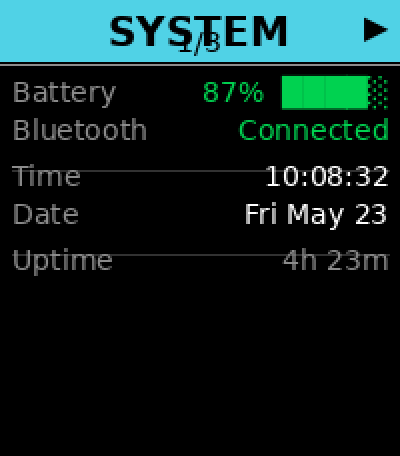
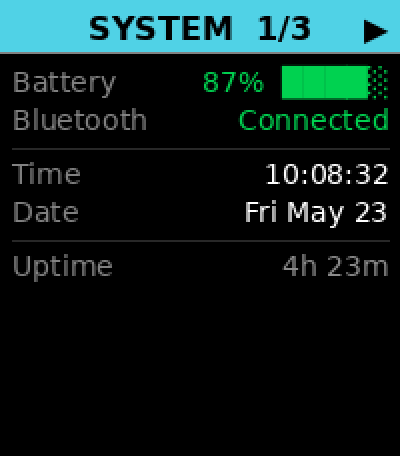
Fix layout and overlap issues across all three apps
tutorial-watchface:
- Disconnect "X" now drawn below the battery bar (BATTERY_BAR_Y + BAR_H + 2)
  instead of at the same y, where it overlapped the 6px bar
- Centred content block clamped to MIN_Y so it can never collide with top chrome

minimalist-digital:
- Battery % and BT indicator were at hardcoded y=6 corner positions, placing them
  ~175px from the gabbro circle centre (radius 130px) — fully clipped and invisible
- Both now sit as a status row inside the vertically-centred content block,
  safe on both rectangular and round displays

sensor-diagnostics:
- Header had two text elements (title fontHd + page indicator fontSm) overlapping
  in the same ~10-27px vertical band; merged into one "TITLE  n/N" string in fontMd
- drawDivider drew at y + ROW_H/2 instead of y; all four call sites passed
  compensating offsets that still placed every divider at the start of the next row;
  fixed function to draw at exactly y and rewrote call sites with y+=3/drawDivider/y+=5

Also: add Layout Rules section to CLAUDE.md to prevent recurrence

https://claude.ai/code/session_01XQxQaedp8XNnZs871mhqEd

Changed region(s): [[0.0, 0.0307, 1.0, 0.614]]

diff --git a/sensor-diagnostics/src/embeddedjs/main.js b/sensor-diagnostics/src/embeddedjs/main.js
@@ -26,10 +26,10 @@ const fontSm = parseBMF(parseRLE(new Resource("Gothic-Regular-18.fnt")));
 const fontMd = parseBMF(parseRLE(new Resource("Gothic-Bold-18.fnt")));
 const fontHd = parseBMF(parseRLE(new Resource("Gothic-Bold-24.fnt")));
 
-const ROW_H    = fontSm.height + 4;
-const HDR_H    = fontHd.height + 6;
-const MARGIN   = 6;
-const DIVIDER_Y = HDR_H + 2;
+const ROW_H     = fontSm.height + 4;
+const HDR_H     = fontMd.height + 10;  // single-line header using fontMd
+const MARGIN    = 6;
+const DIVIDER_Y = HDR_H + 1;
 
 // ─── Pages ───────────────────────────────────────────────────────────────────
 
@@ -111,25 +111,21 @@ function dateStr() {
 // ─── Drawing ──────────────────────────────────────────────────────────────────
 
 function drawHeader(title) {
-  // Background strip
   render.fillRectangle(CYAN, 0, 0, W, HDR_H);
 
-  // Page title centered
-  const tw = render.getTextWidth(title, fontHd);
-  render.drawText(title, fontHd, BLACK, Math.round((W - tw) / 2), 3);
+  // Single line: "TITLE  n/N", vertically centred in header band
+  const label = `${title}  ${page + 1}/${PAGES.length}`;
+  const ty    = Math.round((HDR_H - fontMd.height) / 2);
 
-  // Nav arrows
-  const arrowColor = BLACK;
-  if (page > 0) render.drawText("◀", fontMd, arrowColor, MARGIN, 3);
-  if (page < PAGES.length - 1) render.drawText("▶", fontMd, arrowColor, W - render.getTextWidth("▶", fontMd) - MARGIN, 3);
+  if (page > 0)
+    render.drawText("◀", fontMd, BLACK, MARGIN, ty);
+  if (page < PAGES.length - 1)
+    render.drawText("▶", fontMd, BLACK, W - render.getTextWidth("▶", fontMd) - MARGIN, ty);
 
-  // Page indicator
-  const indicator = `${page + 1}/${PAGES.length}`;
-  const iw = render.getTextWidth(indicator, fontSm);
-  render.drawText(indicator, fontSm, arrowColor, Math.round((W - iw) / 2), HDR_H - fontSm.height - 2);
+  const lw = render.getTextWidth(label, fontMd);
+  render.drawText(label, fontMd, BLACK, Math.round((W - lw) / 2), ty);
 
-  // Divider
-  render.fillRectangle(GRAY, 0, DIVIDER_Y, W, 1);
+  render.fillRectangle(GRAY, 0, HDR_H, W, 1);
 }
 
 function drawRow(label, value, valueColor, y) {
@@ -139,7 +135,7 @@ function drawRow(label, value, valueColor, y) {
 }
 
 function drawDivider(y) {
-  render.fillRectangle(render.makeColor(40, 40, 40), MARGIN, y + ROW_H / 2, W - MARGIN * 2, 1);
+  render.fillRectangle(render.makeColor(40, 40, 40), MARGIN, y, W - MARGIN * 2, 1);
 }
 
 // Page 1: System
@@ -164,7 +160,7 @@ function drawSystem() {
           state.connected ? GREEN : RED, y);
   y += ROW_H;
 
-  drawDivider(y - ROW_H / 2);
+  y += 3; drawDivider(y); y += 5;
 
   drawRow("Time", timeStr(), WHITE, y);
   y += ROW_H;
@@ -172,7 +168,7 @@ function drawSystem() {
   drawRow("Date", dateStr(), WHITE, y);
   y += ROW_H;
 
-  drawDivider(y - ROW_H / 2);
+  y += 3; drawDivider(y); y += 5;
 
   drawRow("Uptime", formatUptime(), GRAY, y);
 }
@@ -192,8 +188,7 @@ function drawMotion() {
     y += ROW_H * 3;
   }
 
-  drawDivider(y);
-  y += 6;
+  y += 3; drawDivider(y); y += 5;
 
   const stepsVal = (state.steps !== null) ? String(state.steps) : "N/A";
   drawRow("Steps", stepsVal, CYAN, y);
@@ -206,8 +201,7 @@ function drawInput() {
   const lastColor = state.lastButton === "—" ? GRAY : YELLOW;
   drawRow("Last btn", state.lastButton.toUpperCase(), lastColor, y); y += ROW_H;
 
-  drawDivider(y);
-  y += 6;
+  y += 3; drawDivider(y); y += 5;
 
   function btnRow(label, pressed) {
     drawRow(label, pressed ? "PRESSED" : "released", pressed ? YELLOW : GRAY, y);

diff --git a/minimalist-digital/src/embeddedjs/main.js b/minimalist-digital/src/embeddedjs/main.js
@@ -18,6 +18,8 @@ const timeFont = parseBMF(parseRLE(new Resource("Bitham-Bold-42.fnt")));
 const dateFont = parseBMF(parseRLE(new Resource("Gothic-Bold-24.fnt")));
 const infoFont = parseBMF(parseRLE(new Resource("Gothic-Regular-18.fnt")));
 
+const MARGIN = 6;
+
 const DAYS   = ["Sun", "Mon", "Tue", "Wed", "Thu", "Fri", "Sat"];
 const MONTHS = ["Jan", "Feb", "Mar", "Apr", "May", "Jun",
                 "Jul", "Aug", "Sep", "Oct", "Nov", "Dec"];
@@ -42,32 +44,32 @@ function draw(now) {
   render.begin(0, 0, W, H);
   render.fillRectangle(BLACK, 0, 0, W, H);
 
-  // Battery % — top right
-  const batStr = `${batteryLevel}%`;
-  const batW   = render.getTextWidth(batStr, infoFont);
-  render.drawText(batStr, infoFont, batteryLevel <= 20 ? RED : GRAY, W - batW - 6, 6);
+  const timeStr = formatTime(now);
+  const dateStr = formatDate(now);
+  const batStr  = `${batteryLevel}%`;
 
-  // Bluetooth indicator — top left, only when disconnected
-  if (!connected) {
-    render.drawText("BT", infoFont, RED, 6, 6);
-  }
+  const infoH   = infoFont.height;
+  const timeH   = timeFont.height;
+  const dateH   = dateFont.height;
+  const GAP     = 6;
 
-  // Vertically center time + date block
-  const timeH    = timeFont.height;
-  const dateH    = dateFont.height;
-  const gap      = 6;
-  const contentH = timeH + gap + dateH;
-  let   y        = Math.round((H - contentH) / 2);
+  // All four elements form one centred block — safe on both rect and round displays
+  const contentH = infoH + GAP + timeH + GAP + dateH;
+  let y = Math.round((H - contentH) / 2);
+
+  // Info row: battery % right-aligned, BT left-aligned when disconnected
+  const batW = render.getTextWidth(batStr, infoFont);
+  render.drawText(batStr, infoFont, batteryLevel <= 20 ? RED : GRAY, W - batW - MARGIN, y);
+  if (!connected) render.drawText("BT", infoFont, RED, MARGIN, y);
+  y += infoH + GAP;
 
   // Time
-  const timeStr = formatTime(now);
-  const timeW   = render.getTextWidth(timeStr, timeFont);
+  const timeW = render.getTextWidth(timeStr, timeFont);
   render.drawText(timeStr, timeFont, WHITE, Math.round((W - timeW) / 2), y);
-  y += timeH + gap;
+  y += timeH + GAP;
 
   // Date
-  const dateStr = formatDate(now);
-  const dateW   = render.getTextWidth(dateStr, dateFont);
+  const dateW = render.getTextWidth(dateStr, dateFont);
   render.drawText(dateStr, dateFont, GRAY, Math.round((W - dateW) / 2), y);
 
   render.end();

diff --git a/tutorial-watchface/src/embeddedjs/main.js b/tutorial-watchface/src/embeddedjs/main.js
@@ -114,11 +114,12 @@ function draw(now) {
   const barColor = batteryLevel > 40 ? GREEN : batteryLevel > 20 ? YELLOW : RED;
   render.fillRectangle(barColor, BATTERY_BAR_MARGIN, BATTERY_BAR_Y, barW, BATTERY_BAR_H);
 
-  // Disconnected indicator
+  // Disconnected indicator — sits below the battery bar, not on top of it
   if (!connected) {
     const xStr = "X";
     const xW = render.getTextWidth(xStr, statusFont);
-    render.drawText(xStr, statusFont, RED, W - xW - BATTERY_BAR_MARGIN, BATTERY_BAR_Y);
+    render.drawText(xStr, statusFont, RED, W - xW - BATTERY_BAR_MARGIN,
+      BATTERY_BAR_Y + BATTERY_BAR_H + 2);
   }
 
   // Calculate total content height for vertical centering
@@ -127,7 +128,9 @@ function draw(now) {
   const weatH = weather ? statusFont.height + 4 : 0;
   const contentH = timeH + dateH + weatH;
 
-  let y = Math.round((H - contentH) / 2);
+  // Clamp so content never overlaps the battery bar / disconnect indicator at top
+  const MIN_Y = BATTERY_BAR_Y + BATTERY_BAR_H + statusFont.height + 6;
+  let y = Math.max(MIN_Y, Math.round((H - contentH) / 2));
 
   // Time
   const timeStr = formatTime(now);

diff --git a/CLAUDE.md b/CLAUDE.md
@@ -140,6 +140,33 @@ pebble install --emulator gabbro   # test round display
 
 Do not skip this step even for small changes. The README is the living record of the project.
 
+## Layout Rules
+
+Follow these rules in every drawing function to avoid overlaps and clipping.
+
+**General**
+- Never hardcode a pixel y position for a floating UI element. Always derive y from font metrics, screen dimensions, and adjacent elements.
+- After drawing any element at y, advance before drawing the next: `y += element.height + gap`.
+- Clamp bottom overflow: ensure `y + element.height <= H - MARGIN` before drawing.
+
+**Status indicators (battery, BT, connection)**
+- Do NOT place status indicators at a hardcoded corner like `y = 6` — those coordinates are outside the visible circle on the gabbro round display (260×260, radius 130 px, corners ~175 px from centre).
+- Include status as a row inside the vertically-centred content block instead of floating it at the corners. This keeps it safe on both rectangular and circular displays.
+- Inscribed-square safe zone for gabbro: x from `W * 0.15` to `W * 0.85`, y from `H * 0.15` to `H * 0.85`.
+
+**Centered content blocks**
+- Compute `contentH` to include ALL rows before calculating `y = Math.round((H - contentH) / 2)`.
+- When fixed chrome (battery bar, header) occupies the top, clamp: `y = Math.max(chromeBottom + gap, Math.round((H - contentH) / 2))`.
+
+**Dividers**
+- `drawDivider(y)` must draw at exactly `y` — no internal offset.
+- Call pattern: `y += 3; drawDivider(y); y += 5;` — always leave a gap before and after.
+
+**Headers**
+- Never stack two text elements at overlapping y positions inside the same header band.
+- Combine title and page number into one string: e.g. `"SYSTEM  1/3"`.
+- Vertically centre text in the header: `ty = Math.round((HDR_H - font.height) / 2)`.
+
 ## Notes
 - Font resource names (`Jersey10-Regular-56.fnt`, `Bitham-Bold-42.fnt`, etc.) must match the exact names provided by your installed Alloy SDK. Check `pebble.sdkVersion` in package.json and the SDK docs if build fails on font resources.
 - Alloy currently officially targets `emery` and `gabbro`. The Pebble 2 Duo (asterix) may require PebbleOS ≥ 4.9.127 to run Alloy apps; check release notes at https://developer.repebble.com/sdk/changelogs/4.9.127/

diff --git a/README.md b/README.md
@@ -115,3 +115,10 @@ Pebble-apps/
 ### 2026-05-23 (continued)
 - Added `sensor-diagnostics` — 3-page watchapp showing battery, BT, time, accelerometer X/Y/Z, step count, and live button state; graceful N/A for absent sensors
 - Added diagnostics mockups for all 3 pages on emery and gabbro (`assets/diagnostics-*`)
+
+### 2026-05-23 (layout fixes)
+- `tutorial-watchface`: fixed disconnect "X" overlapping the battery bar; clamped centred content to never collide with top chrome
+- `minimalist-digital`: moved battery % and BT indicator into the vertically-centred content block — previously both were clipped off-screen on the gabbro round display
+- `sensor-diagnostics`: merged header title and page number into one line to fix overlap; fixed `drawDivider` drawing at the wrong position (lines were rendering on top of row text); rewrote all four divider call sites with correct gap pattern
+- Regenerated all mockups to reflect corrected layouts
+- Added Layout Rules section to `CLAUDE.md` documenting safe-zone, divider, and centring guidelines
